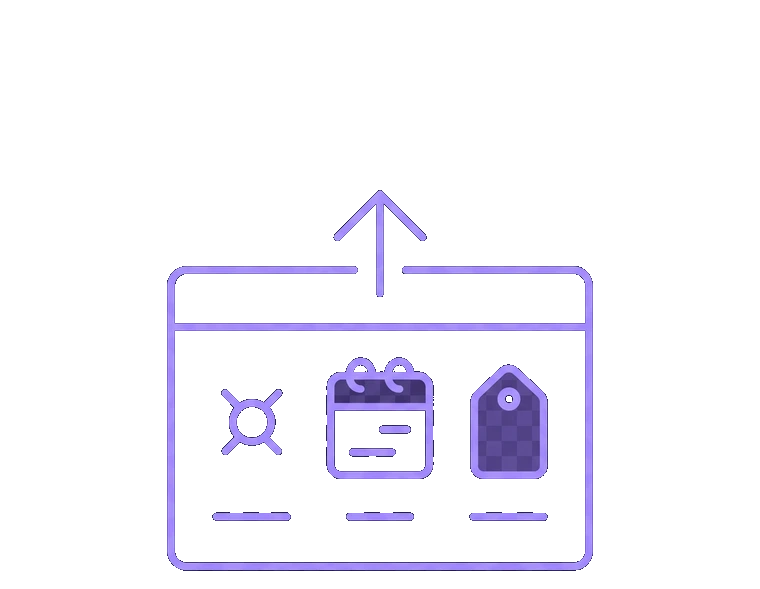
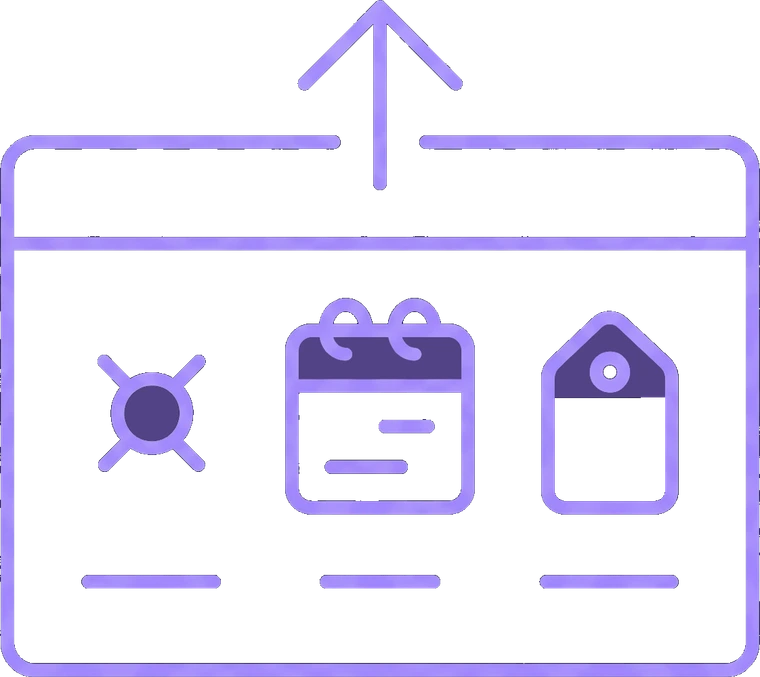
cambio(negocio): ilustraciones nuevas para el primer tema
Sustituyen a las tres originales de «Cómo funciona». Tienen más cuerpo y
más relleno violeta, en la línea de las de «De la idea al proyecto»: los
dos temas de Progreso se ven ahora de la misma familia, que era lo que
desentonaba.

La tercera traía la marca de Gemini abajo a la derecha, en gris. No hubo
que recortar nada: el filtro que deja solo el violeta se la lleva por
delante, porque la marca es neutra. Sirve para las próximas — si la marca
no toca el dibujo, la limpieza la borra sola.

Las anteriores quedan en `arte-negocio/retiradas/` por si hay que
volver.

⚠ Queda un desequilibrio: la tercera es una composición muy apaisada y,
recortada al contenido, mide 57 px de alto en pantalla frente a los 214 y
238 de las otras dos. Se ve pequeña al lado de ellas. Pendiente de
decidir con Fernando.

Claude-Session: https://claude.ai/code/session_018rT3md63moR7eLVM2bbt1e

Changed region(s): [[0.0, 0.0, 1.0, 1.0]]

diff --git a/lib/sitio/contenido.ts b/lib/sitio/contenido.ts
@@ -261,17 +261,17 @@ export const ACCESOS: Acceso[] = [
         {
           titulo: 'Lo publicas',
           texto: 'Un ticket con lo que necesitas desde tu perspectiva como cliente, tu presupuesto, la fecha límite de entrega, y configuras el talento que necesitas.',
-          imagen: { src: '/negocio/paso-1-publicas.webp', ancho: 760, alto: 589 },
+          imagen: { src: '/negocio/paso-1-publicas.webp', ancho: 760, alto: 677 },
         },
         {
           titulo: 'Lo toma quien sabe hacerlo',
           texto: 'Un perfil con el talento requerido revisa el ticket abierto, analiza su disponibilidad según la fecha límite de entrega, y define el costo final en base a tu presupuesto.',
-          imagen: { src: '/negocio/paso-2-lo-toma.webp', ancho: 760, alto: 639 },
+          imagen: { src: '/negocio/paso-2-lo-toma.webp', ancho: 760, alto: 753 },
         },
         {
           titulo: 'Lo sigues sin arrear',
           texto: 'El talento se hace responsable de establecer los días y horas de trabajo previo a la fecha límite de entrega, coordina reuniones, y tomará contacto hasta completar la tarea.',
-          imagen: { src: '/negocio/paso-3-seguimiento.webp', ancho: 760, alto: 589 },
+          imagen: { src: '/negocio/paso-3-seguimiento.webp', ancho: 760, alto: 182 },
         },
       ],
     },
